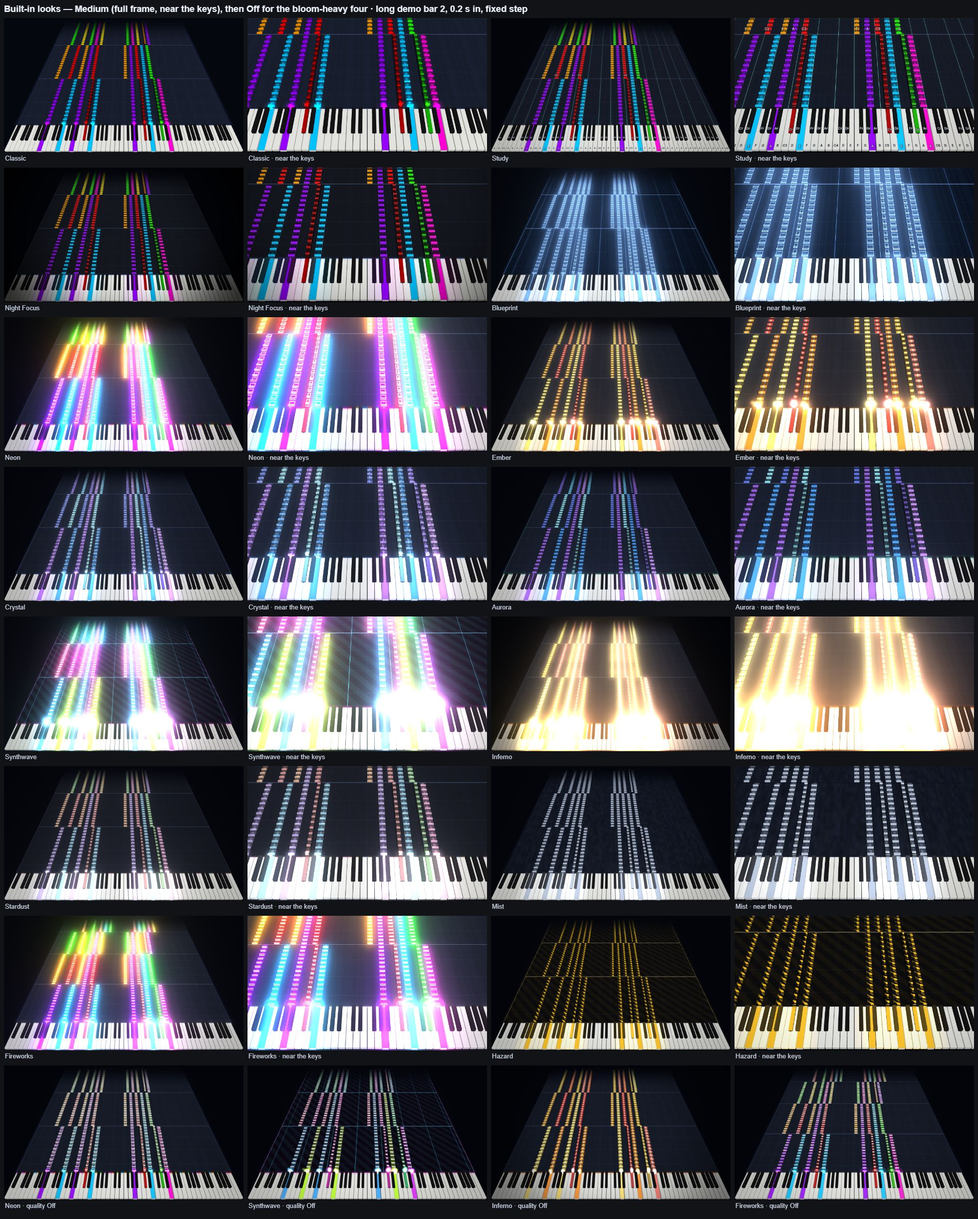
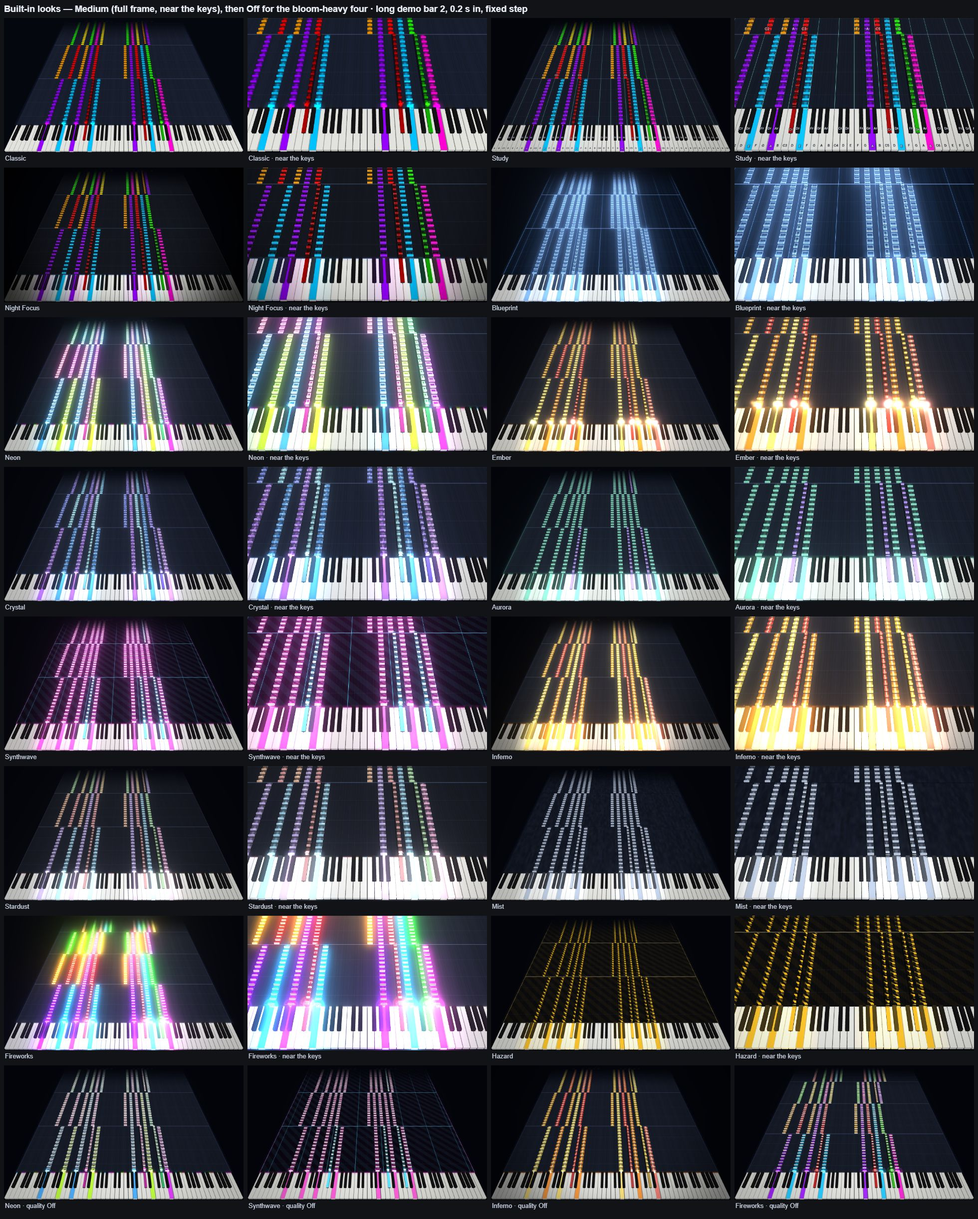
docs: brief 122 (overview follows note colours); all-looks sheet and m9-1 report, section C round 3

diff --git a/docs/brief.md b/docs/brief.md
@@ -232,7 +232,7 @@ Unscheduled ideas and the reasoning behind this order live in `docs/roadmap.md`.
 119. **Animation clock:** flicker, breathing, smoke, stripe drift and particles run on wall-clock time (not the song position), stop while the scene is frozen, and stop under reduced motion (decision 54). **Paused frames settle:** when playback pauses, pulses, flashes and particles already in flight finish over their normal duration on the wall clock; looping animation and sustain particles stop; then the frame holds still. On resume, notes up to the paused position don't pulse again. A pinned animation clock (`?animTime=`, visual tests) shows paused pulses already settled.
 120. **Settings schema v6:** the milestone 9 settings; v5 is migrated: the pedal band's colour and opacity become the pedal cage's fill; everything else keeps its key (lane, bar and beat lines keep their colours, "Now-line effects" stays the effects' master switch) and new settings get their defaults. Shortcut overrides stored by v5 carry over. The stored shape becomes `{ version, settings, shortcuts, looks, deviceClass }`. **v7** (milestone 9 round 3): the first Neon fill becomes Outline (settings and saved looks); the shared stripe width and drift move into the head, sustain and pedal stripe groups (the pedal takes the width only if it was changed from the old default, so its new wider default applies otherwise); the note-name settings of decision 114 are new. **v8** (milestone 9 round 7): the Glass fill becomes Crystal (settings, saved looks and look files), and the round-6 comparison value "Smoke (round 1)" becomes Smoke.
 121. **Looks:** a look is the **complete playfield setup**: every setting in the playfield sidebar — camera and tilt, keyboard, highway and look-ahead, lines and glow, notes, note style, effects, pedal and cages, note names, and bloom strength, radius and threshold — except **device cost** (quality preset, bloom resolution, particle budget, shader detail, and the resolution settings: auto scale, render scale, max pixel ratio, anti-aliasing), which stays per device and is never stored, exported or applied by a look. A look is **self-contained**: a key it lacks (an older look, or one written by hand) takes this device's default when applied, so the same look always gives the same picture. Applying is a pure function of (settings, look, device) — milestone 9.5's playlists, and later bookmarks, use it as a temporary overlay without writing the user's settings. Each look has a **stable id** (a UUID; built-ins `builtin:<name>`), and saved looks have created and updated dates. A **Look** picker at the top of the playfield sidebar lists the built-ins, then "My looks"; picking one applies every playfield setting (camera included) with an Undo toast; a change afterwards shows "⟨Look⟩ · modified". Built-ins, in picker order: **Classic** (the pre-milestone-9 look), Study, Night Focus, Blueprint, Neon, Ember, Crystal, Aurora, Synthwave, Inferno, Stardust, Mist, Fireworks, Hazard (milestone 9.1 §C; ids `builtin:<slug>`; every key pinned, the thirteen new ones on a pinned copy of the 9.1 defaults, so no later default change moves them; starting values for the tuning session). Every built-in reads at quality Off; bloom only adds to it. Built-ins can't be changed, renamed or deleted — only "Save as new…". Saved looks: Save, Save as new…, Rename, Delete (with Undo). **Copy look** puts what's on screen on the clipboard as a `.pmlook.json` file (an unchanged look keeps its id and name; a changed one gets a new id and "⟨Name⟩ (modified)"); **Paste look** imports from the clipboard. **Export look** downloads the picked look as saved (`<name>.pmlook.json`, built-ins too); while it's modified, **Export current settings** exports what's on screen like Copy look; **Export all my looks** downloads `pianomeister-looks.pmlook.json`. **Import** (file picker for `.pmlook.json`/`.json`, or a file dropped on the sidebar) adds looks to My looks and never applies one ("Imported look "⟨Name⟩"" with **Apply** when it's exactly one; "Imported N looks" otherwise): values from an older settings version are migrated, then validated like stored settings (unknown and cost keys dropped, numbers clamped to the ranges, wrong types to the default); a taken name becomes "Name (2)", "Name (3)", …, a taken id gets a new one, nothing is overwritten; a file that isn't a look file, or comes from a newer version, shows an error toast and changes nothing. File format: `{ format: "pianomeister-look", version: <settings version>, looks: [{ id, name, createdAt, settings: { section: { field: value } } }] }`. Saved looks live in the database (Dexie v6), device-wide; the picked look's id is stored with the settings. They are part of the library backup (decision 75): an identical look (same id and values) is skipped, the same id with other values is added under a new id, a taken name becomes "Name (2)"; built-ins are never in a backup.
-122. **Note colours** (milestone 9.1 §C round 2): a Notes setting, part of looks — **Default** (the pitch-class palette above), **Warm** (reds → golds), **Cool** (ice blues → violets), **Neon** (saturated pinks, cyans, limes), **Pastel**, **Mono** (one custom colour for every note) or **Two-tone** (one custom colour for white-key notes, one for black-key notes). In the pitch-class palettes each sharp is a darker shade of the natural below it, as in Default. Everything drawn in a note's colour follows it: notes, pressed and approaching keys, the key light and cones, now-line effects and the held glow, the Pitch now line, and labels' Auto and Note colours. The overview piano roll (decision 101) keeps the Default palette. Classic pins Default; a look without the setting gets Default.
+122. **Note colours** (milestone 9.1 §C round 2): a Notes setting, part of looks — **Default** (the pitch-class palette above), **Warm** (reds → golds), **Cool** (ice blues → violets), **Neon** (saturated pinks, cyans, limes), **Pastel**, **Mono** (one custom colour for every note) or **Two-tone** (one custom colour for white-key notes, one for black-key notes). In the pitch-class palettes each sharp is a darker shade of the natural below it, as in Default. Everything drawn in a note's colour follows it: notes, pressed and approaching keys, the key light and cones, now-line effects and the held glow, the Pitch now line, and labels' Auto and Note colours. The overview piano roll and the loop editor's minimap (decisions 101, 106) follow it too: they show the same notes. Classic pins Default; a look without the setting gets Default.
 
 ## Note color palette
 

diff --git a/docs/reports/feat-m9-1-looks.md b/docs/reports/feat-m9-1-looks.md
@@ -278,3 +278,38 @@ See plan §8. In short:
 - [ ] `docs/design/m9-1/all-looks.jpg`.
 - [ ] In the app: Notes → Note colours, every palette; Mono and Two-tone colour pickers; the pressed keys and labels follow.
 - [ ] Then the tuning session (step 7).
+
+## 2026-11-22 — Section C round 3: whiteouts, palettes, overview (stop for the tuning session)
+
+### What was done
+
+- **Inferno:** bloom strong → medium; flame burst size and count → subtle. Strong key spill, strong pulse, flames and hot core stay, so it is still the loudest fire look. On the dense passage the keys and the arriving notes read.
+- **Synthwave:**
+  - palette Two-tone: white-key notes `#FF4FD8`, black-key notes `#4FE3FF`;
+  - scaling sparks size and count → subtle;
+  - bloom strong → medium.
+  - No white blobs at the keys.
+- **Neon:** palette Neon. With strong bloom the bright Neon palette merged the sustains into white haze, so bloom went to medium. It now reads and looks nothing like Fireworks.
+- **Aurora:** palette Two-tone (`#7EE0C3` / `#B08CFF`). Its Secondary border glow is now strong and wider (width medium), and the teal halo is visible.
+- **Overview:** the piano roll and the loop editor's minimap follow the Note colours setting (they redraw on a change). Brief decision 122 is updated, and there's a new e2e test, "the piano roll follows the Note colours setting".
+- **Sheet:** `all-looks.jpg` re-rendered.
+
+### Checked myself (dense passage, Medium, full size and near the keys)
+
+- **Inferno, Synthwave, Neon, Fireworks and Aurora** were each checked at full size.
+- **Fireworks** has some glare where explosion rings start at the keys; the keys and notes still read, so I left it.
+- **No look whites out** the keys or the arriving notes anymore.
+
+### Results
+
+- **`npm run check`:** passed, 743 tests.
+- **E2e:** 170 tests. In the full run 168 passed and 2 failed (a `toBeVisible` timeout). Both passed when re-run with `--last-failed`. The full run took 7.1 min against 4.5 earlier, so the machine was under load, and I count them as flakes.
+
+### Decisions I made that weren't in the instructions
+
+- **Neon's bloom is now medium:** it whited out on the Neon palette.
+- **Aurora's border width** goes to medium, so the stronger glow has a line to sit on.
+
+### For the tuning session
+
+- Fireworks' explosion glare at the keys; the subtle-bloom level (Study, Night Focus); the octave-glow brightening from section B.
